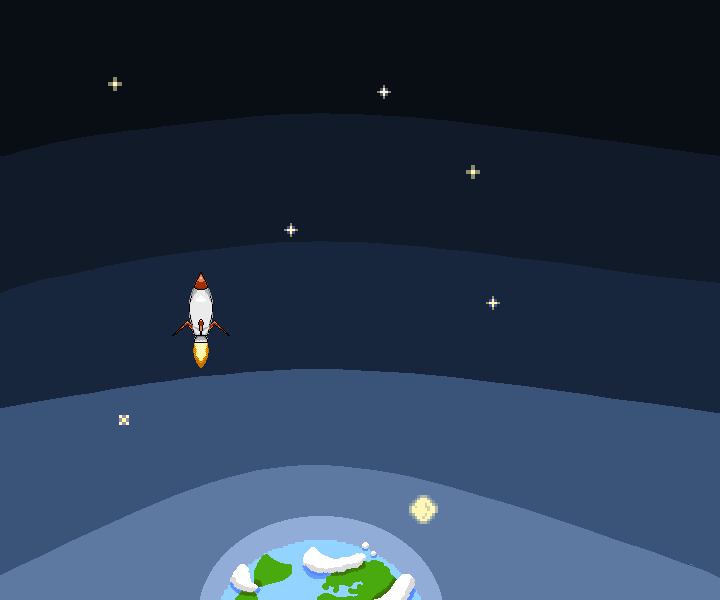
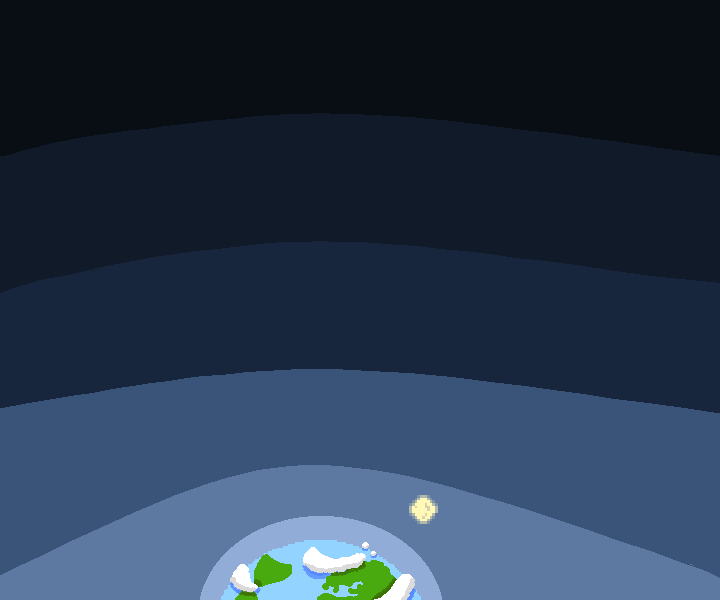
More stars added to the code, star sprite and animation, fixed an issue where the console was getting stuck on the space table

diff --git a/tables/space.js b/tables/space.js
@@ -134,7 +134,7 @@
                  "y":74
                 }, 
                 {
-                 "gid":41,
+                 "gid":43,
                  "height":600,
                  "id":166,
                  "name":"space_bottom_bg",
@@ -148,8 +148,8 @@
                  "type":"",
                  "visible":true,
                  "width":720,
-                 "x":271.392970057653,
-                 "y":600.353356890459
+                 "x":271.393,
+                 "y":600.353
                 }],
          "opacity":1,
          "type":"objectgroup",
@@ -1764,6 +1764,34 @@
                  "width":1,
                  "x":716,
                  "y":581.667
+                }, 
+                {
+                 "gid":39,
+                 "height":20,
+                 "id":167,
+                 "name":"expanding_star",
+                 "properties":[
+                        {
+                         "name":"xVelocity",
+                         "type":"int",
+                         "value":0
+                        }, 
+                        {
+                         "name":"yVelocity",
+                         "type":"int",
+                         "value":0
+                        }, 
+                        {
+                         "name":"zOrder",
+                         "type":"int",
+                         "value":-80
+                        }],
+                 "rotation":0,
+                 "type":"star",
+                 "visible":true,
+                 "width":20,
+                 "x":433.555886181886,
+                 "y":191.327877998884
                 }],
          "opacity":1,
          "type":"objectgroup",
@@ -2539,7 +2567,7 @@
          "y":0
         }],
  "nextlayerid":7,
- "nextobjectid":167,
+ "nextobjectid":168,
  "orientation":"orthogonal",
  "properties":[
         {
@@ -2568,7 +2596,7 @@
          "margin":0,
          "name":"dynamic",
          "spacing":0,
-         "tilecount":36,
+         "tilecount":38,
          "tileheight":598,
          "tiles":[
                 {
@@ -3118,12 +3146,24 @@
                          "value":-80
                         }],
                  "type":"star"
+                }, 
+                {
+                 "id":37,
+                 "image":"..\/img\/tables\/expanding_star.png",
+                 "imageheight":16,
+                 "imagewidth":16
+                }, 
+                {
+                 "id":38,
+                 "image":"..\/img\/tables\/expanding_star_2.png",
+                 "imageheight":20,
+                 "imagewidth":20
                 }],
          "tilewidth":197
         }, 
         {
          "columns":0,
-         "firstgid":38,
+         "firstgid":40,
          "grid":
             {
              "height":1,
@@ -3176,7 +3216,7 @@
         }, 
         {
          "columns":0,
-         "firstgid":42,
+         "firstgid":44,
          "grid":
             {
              "height":1,

diff --git a/js/MapBuilder.js b/js/MapBuilder.js
@@ -158,7 +158,20 @@ function MapBuilder (tableName = DEFAULT_TABLE) {
                                 ...ANIMATIONS.SMALL_STAR,
                                 animationSpritesheet: images[ANIMATIONS.SMALL_STAR.imageNames[obj.name]],
                             }));
-                        }
+                        } else if (obj.name === ENTITY_NAME.ExpandingStar) {
+                            DEBUG_LOG("[Mapbuilder] BuildDynObjects -> ExpandingStar");
+                            result.push(new Star(self.minY, self.maxY, obj, null, {
+                                ...ANIMATIONS.EXPANDING_STAR,
+                                animationSpritesheet: images[ANIMATIONS.EXPANDING_STAR.imageNames[obj.name]],
+                            }));
+                        } else if (obj.name === ENTITY_NAME.ExpandingStar_2) {
+                            DEBUG_LOG("[Mapbuilder] BuildDynObjects -> ExpandingStar2");
+                            result.push(new Star(self.minY, self.maxY, obj, null, {
+                                ...ANIMATIONS.EXPANDING_STAR_2,
+                                animationSpritesheet: images[ANIMATIONS.EXPANDING_STAR_2.imageNames[obj.name]],
+                            }));
+                        } 
+                        
                     } else {
                         result.push(new GameObject(obj, bodyData));
                     }

diff --git a/js/Globals.js b/js/Globals.js
@@ -145,7 +145,9 @@ const ENTITY_NAME = {
 	PlaneRed: 'plane_red',
 	SpawnerPlane: 'spawner_plane',
 	SmallStar: 'small_star',
-	TinyStar: 'tiny_star'
+	TinyStar: 'tiny_star',
+	ExpandingStar: 'expanding_star',
+	ExpandingStar_2: 'expanding_star_2'
 }
 
 const COLLISION_TYPE = {
@@ -244,6 +246,28 @@ const ANIMATIONS = {
 		frameWidth: 5,
 		frameHeight: 5,
 		frameTimes: [128],
+		reverses: false,
+		loops: true
+	},
+	EXPANDING_STAR: {
+		imageNames: {
+			"expanding_star": "expanding_star_anim"
+		},
+		frames: [0, 1, 2, 3, 4, 5],
+		frameWidth: 1,
+		frameHeight: 1,
+		frameTimes: [256],
+		reverses: false,
+		loops: true
+	},
+	EXPANDING_STAR_2: {
+		imageNames: {
+			"expanding_star_2": "expanding_star_2_anim"
+		},
+		frames: [0, 1, 2, 3, 4, 5, 6],
+		frameWidth: 1,
+		frameHeight: 1,
+		frameTimes: [256],
 		reverses: false,
 		loops: true
 	},

diff --git a/js/ImageLoading.js b/js/ImageLoading.js
@@ -111,6 +111,10 @@ function loadImages() {
         {imgName: "cloud_6", theFile: "tables/cloud_6.png"},
         {imgName: "cloud_7", theFile: "tables/cloud_7.png"},
         {imgName: "space_bottom_bg", theFile: "tables/space_bottom_bg.png"},
+        {imgName: "expanding_star", theFile: "tables/expanding_star.png"},
+        {imgName: "expanding_star_anim", theFile: "animations/expanding_star_anim.png"},
+        {imgName: "expanding_star_2", theFile: "tables/expanding_star_2.png"},
+        {imgName: "expanding_star_2_anim", theFile: "animations/expanding_star_2_anim.png"},
         {imgName: "tiny_star", theFile: "tables/tiny_star.png"},
         {imgName: "tiny_star_anim", theFile: "animations/tiny_star_anim.png"},
         {imgName: "small_star", theFile: "tables/small_star.png"},

diff --git a/js/GameObjects/GameObject.js b/js/GameObjects/GameObject.js
@@ -117,7 +117,7 @@ class GameObject {
     */
     updateAnimation(deltaTime) {
         if (this.type === ENTITY_TYPE.Star) {
-            console.log("stopping")
+            //console.log("stopping")
         }
         if (!this.hasAnimation || !this.isAnimating) return;
 
